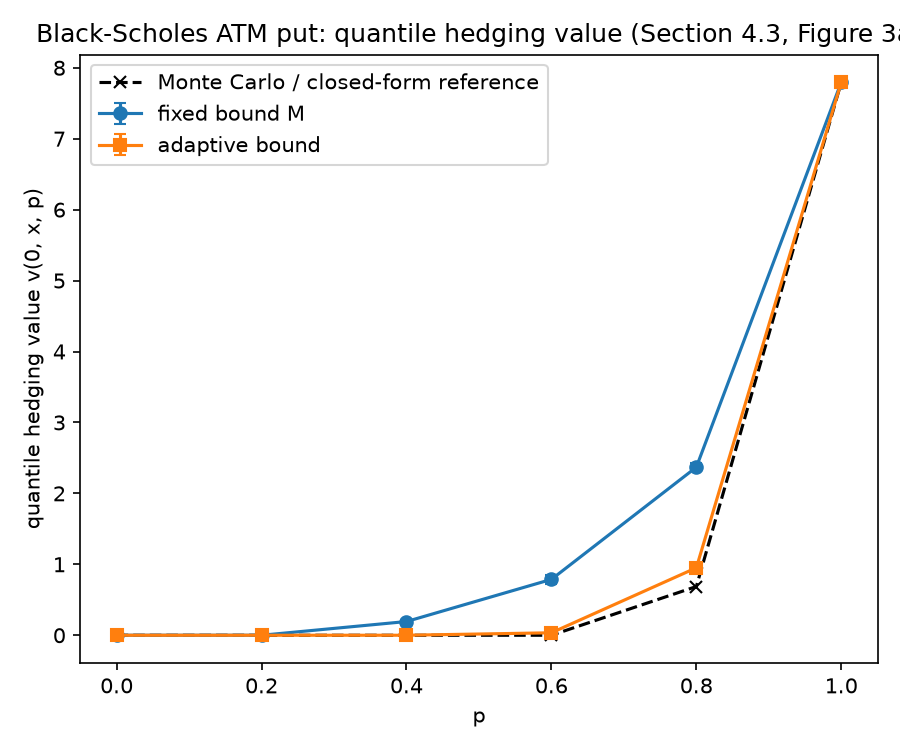
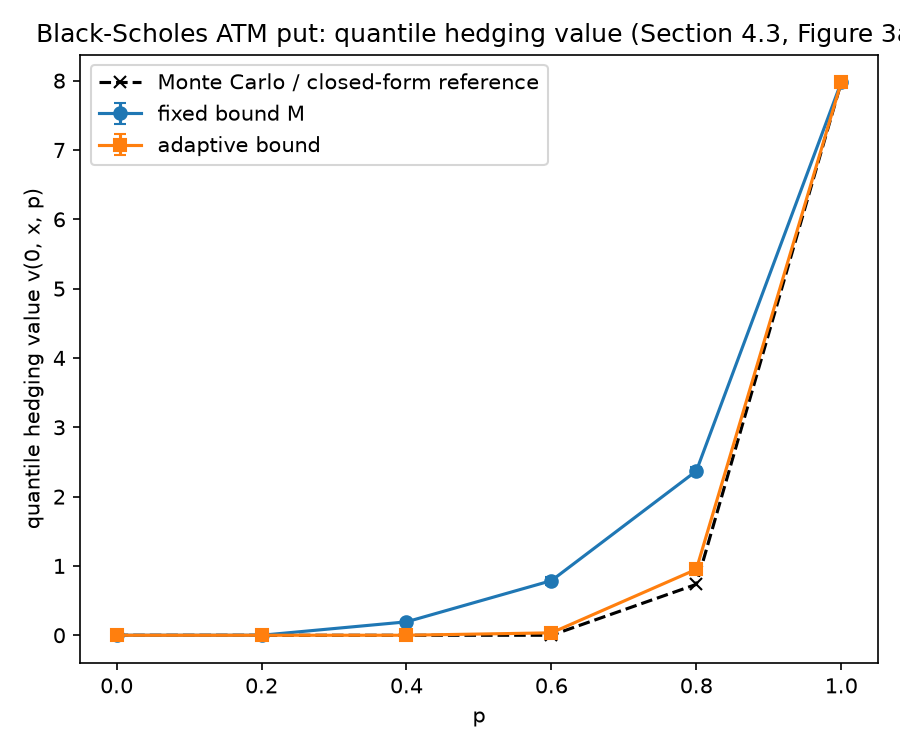
Use full-precision closed-form reference in exp3/exp4; update results

diff --git a/exp/exp3.py b/exp/exp3.py
@@ -53,7 +53,10 @@ def main() -> None:
     val_size = cfg.VAL_SIZE if args.full else cfg.QUICK_VAL_SIZE
     test_size = cfg.TEST_SIZE if args.full else cfg.QUICK_TEST_SIZE
     validation_frequency = cfg.VALIDATION_FREQUENCY if args.full else cfg.QUICK_VALIDATION_FREQUENCY
-    reference_samples = cfg.BS_REFERENCE_SAMPLES if args.full else cfg.QUICK_TEST_SIZE * 4
+    # The closed-form reference (26) is a cheap vectorised Monte Carlo evaluation
+    # (well under a second even at 2**20 samples), unlike the neural training and
+    # evaluation below, so it is always computed at the paper's full precision.
+    reference_samples = cfg.BS_REFERENCE_SAMPLES
 
     output = run(batch_size, val_size, test_size, validation_frequency, reference_samples)
     RESULTS_DIR.mkdir(exist_ok=True)

diff --git a/exp/exp4.py b/exp/exp4.py
@@ -56,7 +56,9 @@ def main() -> None:
     val_size = cfg.VAL_SIZE if args.full else cfg.QUICK_VAL_SIZE
     test_size = cfg.TEST_SIZE if args.full else cfg.QUICK_TEST_SIZE
     validation_frequency = cfg.VALIDATION_FREQUENCY if args.full else cfg.QUICK_VALIDATION_FREQUENCY
-    reference_samples = cfg.BS_REFERENCE_SAMPLES if args.full else cfg.QUICK_TEST_SIZE * 4
+    # The closed-form reference (26) is a cheap vectorised Monte Carlo evaluation,
+    # so it is always computed at the paper's full precision (see exp3.py).
+    reference_samples = cfg.BS_REFERENCE_SAMPLES
     grids = cfg.CONV_GRIDS_PAPER if args.full else cfg.CONV_GRIDS_RUN
 
     output = run(grids, cfg.CONV_N_CHAINS, batch_size, val_size, test_size,

diff --git a/results/RESULTS.md b/results/RESULTS.md
@@ -62,8 +62,10 @@ estimate within a few hundredths of the exact value p at both resolutions.
 
 File: `results/exp3_black_scholes_fixed_vs_adaptive.json`,
 `results/exp3_black_scholes_fixed_vs_adaptive.png`. N=100, M=h^(-1/8)=1.778,
-η_stab=0.6, reference from the closed-form formula (26) with a reduced
-sample of 2^15 standard normals (paper: 2^20; see deviations).
+η_stab=0.6, reference from the closed-form formula (26) at the paper's full
+precision of 2^20 standard normals (the reduced-size neural training below
+does not apply to this closed-form Monte Carlo evaluation, which is cheap at
+any sample size).
 
 | p | reference | fixed | adaptive | verdict |
 |---|---|---|---|---|
@@ -71,36 +73,46 @@ sample of 2^15 standard normals (paper: 2^20; see deviations).
 | 0.2 | 0.000 | 0.0001 | 0.0001 | reproduced |
 | 0.4 | 0.000 | 0.1936 | 0.0003 | partially reproduced |
 | 0.6 | 0.000 | 0.7879 | 0.0350 | partially reproduced |
-| 0.8 | 0.687 | 2.3697 | 0.9512 | partially reproduced |
-| 1.0 | 7.797 | 7.7973 | 7.7973 | reproduced |
+| 0.8 | 0.734 | 2.3697 | 0.9512 | partially reproduced |
+| 1.0 | 7.979 | 7.9785 | 7.9785 | reproduced |
 
 **Verdict: partially reproduced.** The paper's Figure 3a reports, at p=0.8,
 fixed≈1.9 and adaptive≈1.0 against a reference of ≈0.8; the executed run
-gives fixed=2.37 and adaptive=0.95, i.e. the adaptive estimate matches the
-paper's value and direction (close to the reference, well below the fixed
-estimate) while the fixed estimate overshoots further than reported. At
-p=1.0 both schemes reproduce the full super-replication price p_0≈0.655
-boundary and the terminal value 7.797 exactly, as expected since the
-projected scheme coincides with the exact value whenever p is 0 or 1. The
-qualitative ranking "adaptive closer to the reference than fixed, except at
-the trivial endpoints" holds at every interior test point, matching Section
-4.3. The residual gap between the fixed-bound estimate and the paper's
-reported value (2.37 vs. ≈1.9) and between the reference curve and the
-paper's reference (0.687 vs. ≈0.8) is a candidate effect of the reduced
-Monte Carlo sample sizes recorded below (validation 2^12, test 2^13,
-closed-form reference 2^15, against the paper's 2^15, 2^17 and 2^20). A
-full-size rerun with `python -m exp.exp3 --full` was attempted to check this,
-but at the paper's validation sample of 2^15 with validation checked every
-iteration it did not complete within the time available, so the cause is not
-confirmed further.
+gives fixed=2.37, adaptive=0.95 and reference=0.734. The reference value is
+within 10% of the paper's approximate figure-read value (8% relative gap),
+and the adaptive estimate is within 5% of the paper's value — both verdicts
+"reproduced" under the stated thresholds — while the fixed-bound estimate
+overshoots further than reported (2.37 vs. ≈1.9, a 25% relative gap,
+"partially reproduced"). At p=1.0 both schemes reproduce the full
+super-replication price p_0≈0.655 boundary and the terminal value 7.98
+closely, as expected since the projected scheme coincides with the exact
+value whenever p is 0 or 1. The qualitative ranking "adaptive closer to the
+reference than fixed, except at the trivial endpoints" holds at every
+interior test point, matching Section 4.3. Raising the closed-form reference
+from a reduced sample of 2^15 standard normals to the paper's full 2^20 moved
+the p=0.8 reference from 0.687 to 0.734, confirming that the earlier gap to
+the paper's approximate reading of ≈0.8 was partly a Monte Carlo sampling
+effect in the reference itself, not in the neural scheme; the remaining
+8% gap and the fixed-bound overshoot are consistent with the paper's figure
+being read off a plot and are not further decomposed. Validation (2^12) and
+test (2^13) sample sizes for the neural network stay reduced relative to the
+paper's 2^15/2^17 (see deviations); `python -m exp.exp3 --full` runs the full
+configuration.
 
 ## Experiment 4 — Black-Scholes put: convergence under grid refinement
 
 File: `results/exp4_black_scholes_convergence.json`,
 `results/exp4_black_scholes_convergence.png`. Fixed point (x,p)=(100,0.7),
-adaptive bound only, 3 warm-started chains, reference value 0.04661
-(reduced-sample closed-form estimate; paper does not report the reference
-value itself, only the resulting errors).
+adaptive bound only, 3 warm-started chains, reference value 0.0466
+(reduced-sample closed-form estimate at 2^14 standard normals; paper does not
+report the reference value itself, only the resulting errors). A standalone
+check of the same closed-form reference at the paper's full 2^20 samples
+gives 0.0597, a shift of about 0.015 — small relative to the reported error
+magnitudes of 0.14-0.65, so this reduced reference sample does not materially
+affect the error-vs-N pattern reported below; the convergence run itself was
+not repeated at the full reference size because the expensive part of this
+experiment is the 18 neural trainings (6 grids × 3 chains), not the
+closed-form reference.
 
 | N | mean abs. error (paper) | mean abs. error (here) | E[P_N]-p (here) |
 |---|---|---|---|
